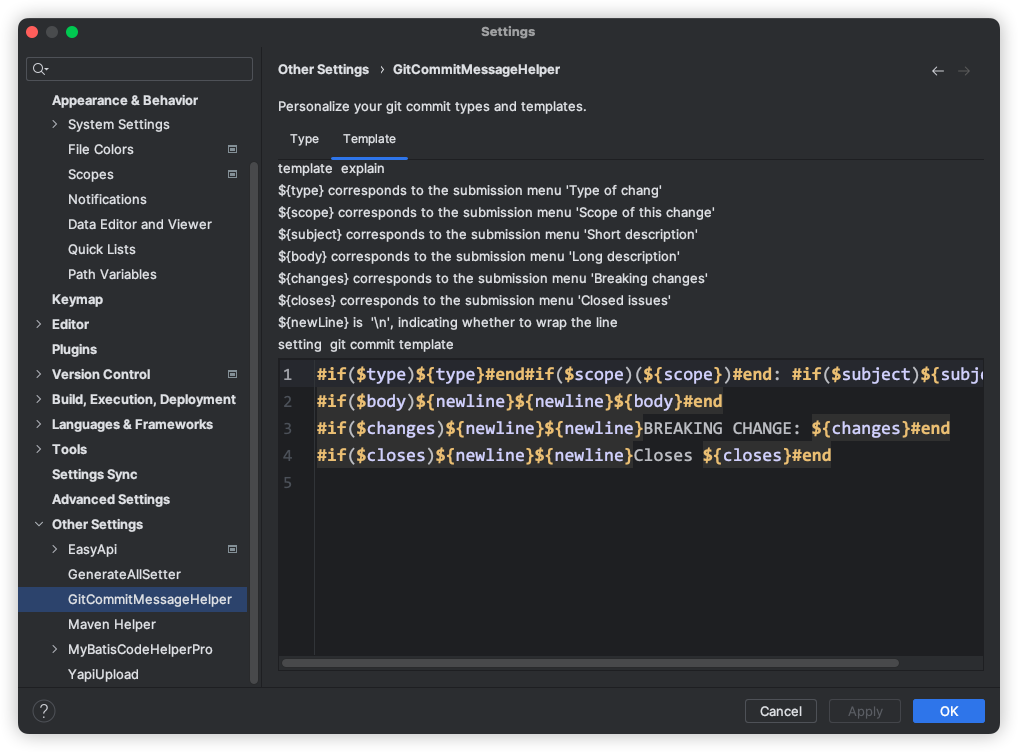
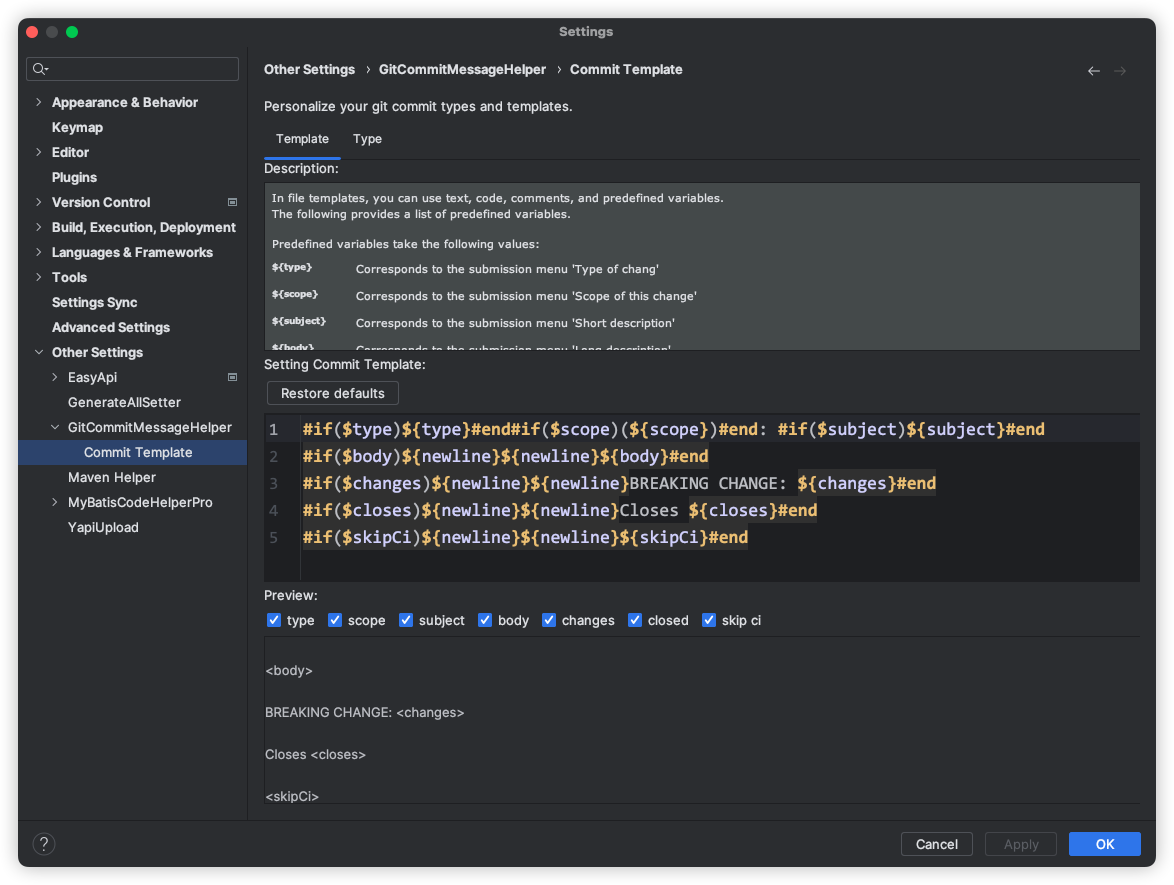
docs: 完善文档

Changed region(s): [[0.0, 0.0, 1.0, 0.9787], [0.0, 0.9481, 0.0609, 0.9787]]

diff --git a/README.md b/README.md
@@ -3,19 +3,23 @@ This plugin is an upgraded version of the source idea plugin [git-commit-templat
 
 
 ## Installation
-Install directly from the IDE plugin manager (File > Settings > Plugins > Browser repositories > Git Commit Message Helper
-)
+Install directly from the IDE plugin manager (File > Settings > Plugins > Marketplace > Git Commit Message Helper)
 
 ## Usage
 ![operation.gif](https://raw.githubusercontent.com/AutismSuperman/git-commit-message-helper/master/doc/image/operation.gif)
 
-If you want to change the type of submission, you can change it in settings
+If you want to personalize the window, you can go to the settings menu to set it up
 
-![settings-2.png](https://raw.githubusercontent.com/AutismSuperman/git-commit-message-helper/master/doc/image/settings-2.png)
+![settings-0.png](https://raw.githubusercontent.com/AutismSuperman/git-commit-message-helper/master/doc/image/settings-0.png)
+
 
 If you want to personalize your submission template can be set in the settings, the template engine here uses velocity
 
 ![settings-1.png](https://raw.githubusercontent.com/AutismSuperman/git-commit-message-helper/master/doc/image/settings-1.png)
+
+If you want to change the type of submission, you can change it in settings
+
+![settings-2.png](https://raw.githubusercontent.com/AutismSuperman/git-commit-message-helper/master/doc/image/settings-2.png)
 
 ## License
 Licensed under the  [Apache License](http://www.apache.org/licenses/LICENSE-2.0), Version 2.0 (the "License"); you may not use this file except in compliance with the License.
